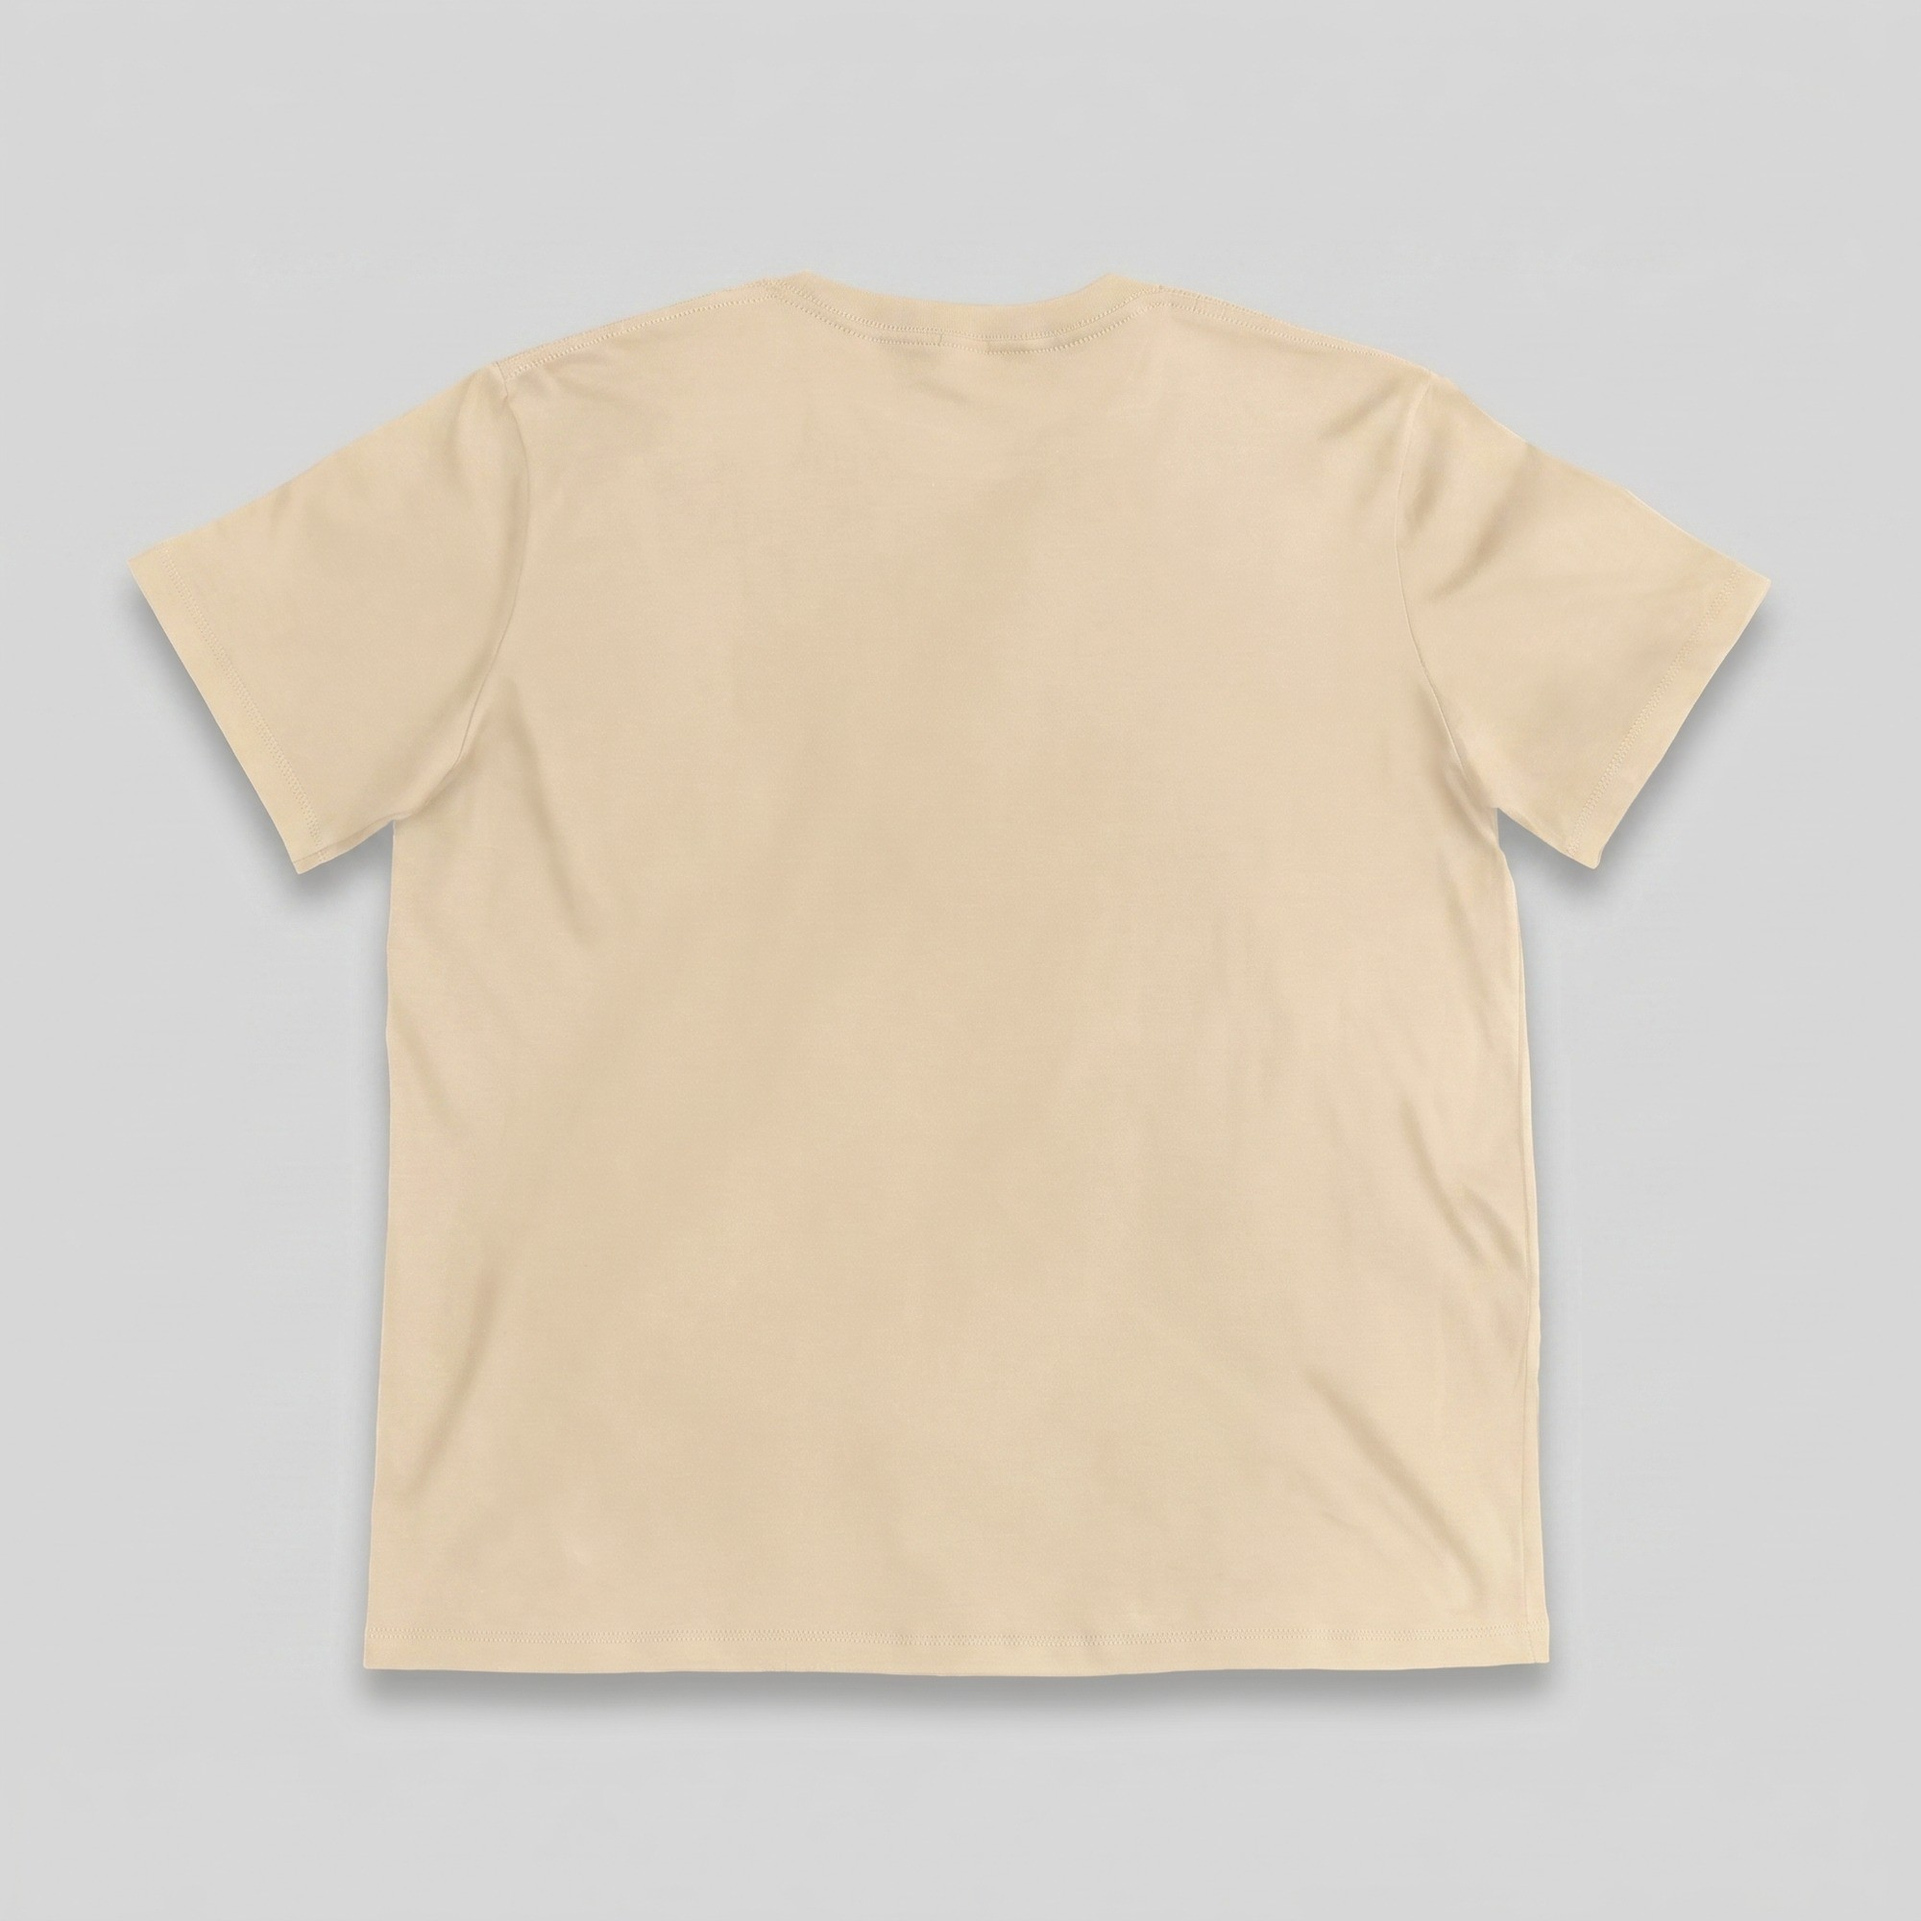
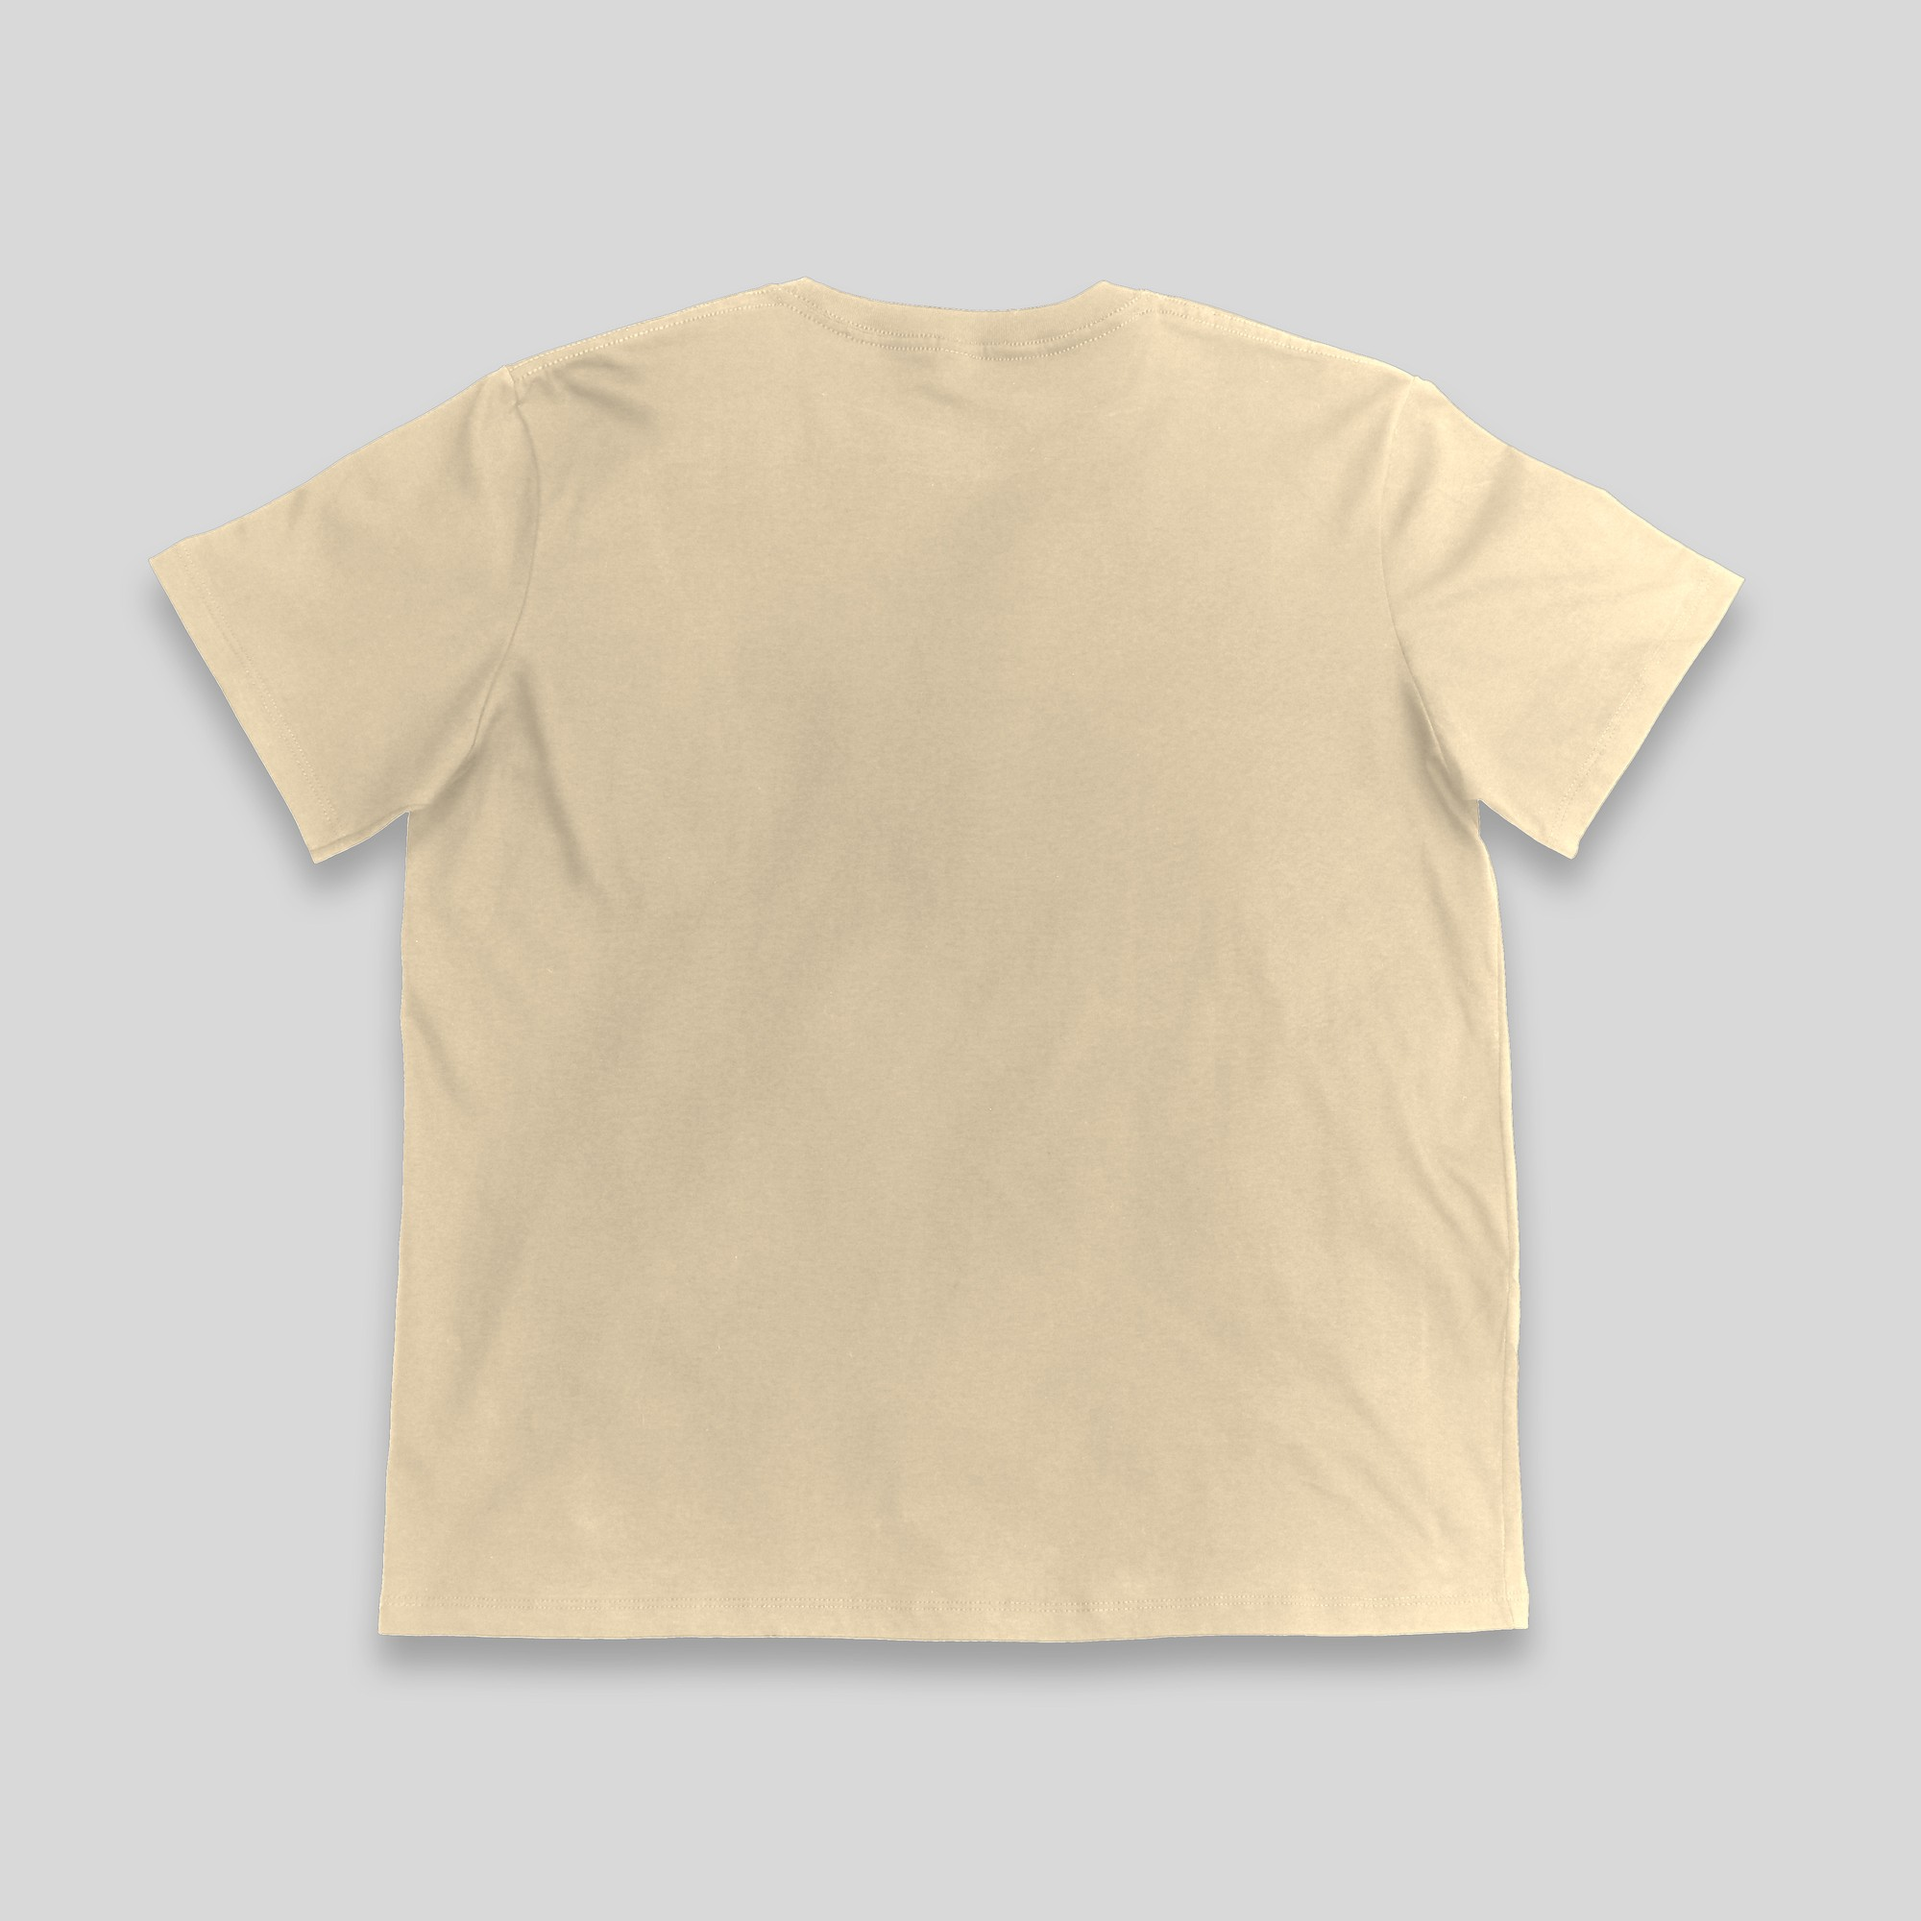
feat(catalogo): Aldea beige completa en /crear, Studio, partners y listas legacy
- catalog/products.ts color beige (#d9c7a8) → /crear, Studio y panel de partners.
- Base tshirt-beige-classic 4000² recoloreada desde la classic negra: calibración
  (garment-mappings) y std-bases copiadas de la negra; ficha web con la base nueva.
- storefront-designer, DesignCustomizer, MockupCanvas, MockupViewer, api/garments,
  print-area-mapper, COLOR_MAP de /crear; PRODUCTS.md vuelve a listar Beige.

diff --git a/__tests__/generation/aldea-beige.test.ts b/__tests__/generation/aldea-beige.test.ts
@@ -1,0 +1,58 @@
+/**
+ * Alta de color "Beige" para Aldea Classic Fit T-Shirt (mismo talle S–XXL
+ * y mismo precio que negro/blanco/stone wash). Verifica los puntos de
+ * integración tocados: catálogo web (lib/products.ts), catálogo fuente
+ * única (lib/catalog/products.ts) y mapeo de área de impresión
+ * (lib/garment-mappings.json).
+ */
+import { describe, it, expect } from 'vitest'
+import fs from 'node:fs'
+import path from 'node:path'
+import { PRODUCTS } from '@/lib/products'
+import { CATALOG_PRODUCTS } from '@/lib/catalog/products'
+import { getGarmentMapping } from '@/lib/garment-mappings'
+
+describe('Aldea Classic Fit T-Shirt — Beige', () => {
+  it('lib/products.ts tiene la entrada B2C con el mismo precio que el resto de la línea', () => {
+    const product = PRODUCTS.find((p) => p.id === 'aldea-tshirt-beige')
+    expect(product).toBeDefined()
+    expect(product?.name).toBe('Aldea Classic Fit T-Shirt - Beige')
+    expect(product?.price).toBe('$28.600')
+    expect(product?.color).toBe('Beige')
+    expect(product?.available).toBe(true)
+  })
+
+  it('lib/catalog/products.ts (fuente única) tiene el color beige con thumbnail existente en public/', () => {
+    const aldea = CATALOG_PRODUCTS.find((p) => p.key === 'aldea-classic-tshirt')
+    expect(aldea).toBeDefined()
+    const beige = aldea?.colors.find((c) => c.key === 'beige')
+    expect(beige).toBeDefined()
+    expect(beige?.name).toBe('Beige')
+    expect(beige?.thumbnail).toBeTruthy()
+    expect(beige?.hero).toBeTruthy()
+    const thumbPath = path.join(process.cwd(), 'public', beige!.thumbnail!.replace(/^\//, ''))
+    const heroPath = path.join(process.cwd(), 'public', beige!.hero!.replace(/^\//, ''))
+    expect(fs.existsSync(thumbPath)).toBe(true)
+    expect(fs.existsSync(heroPath)).toBe(true)
+  })
+
+  it('garment-mappings tiene entradas reales (no fallback) de frente y dorso', () => {
+    const front = getGarmentMapping('aldea-classic-tshirt', 'beige', 'front')
+    const back = getGarmentMapping('aldea-classic-tshirt', 'beige', 'back')
+    expect(front).not.toBeNull()
+    expect(front!.id).not.toBe('fallback')
+    expect(front!.garmentPath).toBe('/garments/tshirt-beige-classic-front.jpeg')
+    expect(back).not.toBeNull()
+    expect(back!.id).not.toBe('fallback')
+    expect(back!.garmentPath).toBe('/garments/tshirt-beige-classic-back.jpeg')
+
+    // Misma caja de impresión que el negro clásico (silueta idéntica: la base
+    // beige es el negro reteñido pixel a pixel, ver garments std-bases).
+    const blackFront = getGarmentMapping('aldea-classic-tshirt', 'black', 'front')
+    const blackBack = getGarmentMapping('aldea-classic-tshirt', 'black', 'back')
+    expect(front!.coordinates).toEqual(blackFront!.coordinates)
+    expect(front!.margins).toEqual(blackFront!.margins)
+    expect(back!.coordinates).toEqual(blackBack!.coordinates)
+    expect(back!.margins).toEqual(blackBack!.margins)
+  })
+})

diff --git a/components/partners/storefront-designer.tsx b/components/partners/storefront-designer.tsx
@@ -31,6 +31,7 @@ const GARMENT_THUMBNAILS: Record<string, Record<string, string>> = {
   'aldea-classic-tshirt': {
     black: '/garments/tshirt-black-classic-front.jpeg',
     white: '/garments/tshirt-white-classic-front.jpeg',
+    beige: '/garments/tshirt-beige-classic-front.jpeg',
     'stone-wash': '/garments/tshirt-stone-wash-classic-front.jpeg',
   },
   'buzo-hoodie-unisex': {
@@ -64,11 +65,11 @@ const GARMENT_THUMBNAILS: Record<string, Record<string, string>> = {
 }
 
 const COLOR_LABELS: Record<string, string> = {
-  black: 'Negro', white: 'Blanco', cream: 'Crema', gray: 'Gris', marron: 'Marron', chocolate: 'Chocolate', yellow: 'Amarillo', 'stone-wash': 'Stone Wash',
+  black: 'Negro', white: 'Blanco', beige: 'Beige', cream: 'Crema', gray: 'Gris', marron: 'Marron', chocolate: 'Chocolate', yellow: 'Amarillo', 'stone-wash': 'Stone Wash',
 }
 
 const COLOR_MAP: Record<string, string> = {
-  black: '#1a1a1a', white: '#f5f5f5', cream: '#f5f0e1', gray: '#6b7280', marron: '#8B5E34', chocolate: '#5C3A21', yellow: '#F5C518', 'stone-wash': '#9a9085',
+  black: '#1a1a1a', white: '#f5f5f5', beige: '#d9c7a8', cream: '#f5f0e1', gray: '#6b7280', marron: '#8B5E34', chocolate: '#5C3A21', yellow: '#F5C518', 'stone-wash': '#9a9085',
 }
 
 // ---------------------------------------------------------------------------

diff --git a/components/CustomVisualizer/MockupViewer.tsx b/components/CustomVisualizer/MockupViewer.tsx
@@ -20,7 +20,7 @@ interface MockupViewerProps {
 const GARMENTS = [
     { id: "aura-oversize-tshirt", name: "Remera Oversize", colors: ["black", "white", "caramel"], type: "tshirt", variant: "oversize" },
     { id: "buzo-hoodie-unisex", name: "Buzo Hoodie Oversize", colors: ["black", "white", "stone-wash", "marron", "cream", "gray"], type: "hoodie", variant: "oversize" },
-    { id: "aldea-classic-tshirt", name: "Remera Classic", colors: ["black", "white", "stone-wash"], type: "tshirt", variant: "classic" },
+    { id: "aldea-classic-tshirt", name: "Remera Classic", colors: ["black", "white", "beige", "stone-wash"], type: "tshirt", variant: "classic" },
 ]
 
 const COLOR_MAP: Record<string, string> = {
@@ -31,6 +31,7 @@ const COLOR_MAP: Record<string, string> = {
     cream: "bg-[#F5F5DC]",
     gray: "bg-zinc-500",
     "stone-wash": "bg-[#9a9085]",
+    beige: "bg-[#d9c7a8]",
 }
 
 export function MockupViewer({

diff --git a/app/admin/print-area-mapper/page.tsx b/app/admin/print-area-mapper/page.tsx
@@ -56,6 +56,8 @@ const GARMENTS = [
   { path: "/garments/tshirt-black-oversize-back.jpeg", name: "T-shirt Negro Oversize Trasero" },
   { path: "/garments/tshirt-white-classic-front.jpeg", name: "T-shirt Blanco Clásico Frontal" },
   { path: "/garments/tshirt-white-classic-back.jpeg", name: "T-shirt Blanco Clásico Trasero" },
+  { path: "/garments/tshirt-beige-classic-front.jpeg", name: "T-shirt Beige Clásico Frontal" },
+  { path: "/garments/tshirt-beige-classic-back.jpeg", name: "T-shirt Beige Clásico Trasero" },
   { path: "/garments/tshirt-stone-wash-classic-front.jpeg", name: "T-shirt Stone Wash Clásico Frontal" },
   { path: "/garments/tshirt-stone-wash-classic-back.jpeg", name: "T-shirt Stone Wash Clásico Trasero" },
   { path: "/garments/tshirt-white-oversize-front.jpeg", name: "T-shirt Blanco Oversize Frontal" },

diff --git a/app/api/garments/route.ts b/app/api/garments/route.ts
@@ -38,7 +38,7 @@ function inferMeta(file: string): Omit<GarmentItem, "path" | "url"> {
   const side = lower.includes("front") ? "front" : lower.includes("back") ? "back" : "unknown"
 
   // intenta extraer color principal
-  const colors = ["black", "white", "gray", "caramel", "cream", "stone-wash"]
+  const colors = ["black", "white", "beige", "gray", "caramel", "cream", "stone-wash"]
   const color = colors.find((c) => lower.includes(c))
 
   return { type, side, color }
@@ -62,6 +62,8 @@ const GARMENT_FILES = [
   "tshirt-black-oversize-front.jpeg",
   "tshirt-caramel-oversize-back.jpeg",
   "tshirt-caramel-oversize-front.png",
+  "tshirt-beige-classic-back.jpeg",
+  "tshirt-beige-classic-front.jpeg",
   "tshirt-stone-wash-classic-back.jpeg",
   "tshirt-stone-wash-classic-front.jpeg",
   "tshirt-white-classic-back.jpeg",

diff --git a/components/MockupCanvas.tsx b/components/MockupCanvas.tsx
@@ -62,11 +62,13 @@ export function MockupCanvas({
         front: {
           black: "/garments/tshirt-black-classic-front.jpeg",
           white: "/garments/tshirt-white-classic-front.jpeg",
+          beige: "/garments/tshirt-beige-classic-front.jpeg",
           "stone-wash": "/garments/tshirt-stone-wash-classic-front.jpeg",
         },
         back: {
           black: "/garments/tshirt-black-classic-back.jpeg",
           white: "/garments/tshirt-white-classic-back.jpeg",
+          beige: "/garments/tshirt-beige-classic-back.jpeg",
           "stone-wash": "/garments/tshirt-stone-wash-classic-back.jpeg",
         },
       },

diff --git a/components/DesignCustomizer.tsx b/components/DesignCustomizer.tsx
@@ -101,7 +101,7 @@ const GARMENT_DEFAULT_IMAGES = {
 
 const COLORS_BY_GARMENT: Record<string, string[]> = {
   "aura-oversize-tshirt": ["black", "white", "caramel"],
-  "aldea-classic-tshirt": ["black", "white", "stone-wash"],
+  "aldea-classic-tshirt": ["black", "white", "beige", "stone-wash"],
   "buzo-hoodie-unisex": ["black", "white", "stone-wash", "marron", "gray", "cream"],
   "buzo-cuello-redondo-unisex": ["black", "white", "stone-wash"],
   "musculosa-bali": ["white", "gray"],

diff --git a/lib/catalog/products.ts b/lib/catalog/products.ts
@@ -100,6 +100,13 @@ export const CATALOG_PRODUCTS: CatalogProduct[] = [
         hero: '/products/tshirt-aldea-blanco-front.jpeg',
       },
       {
+        key: 'beige',
+        name: 'Beige',
+        hex: '#d9c7a8',
+        thumbnail: '/garments/tshirt-beige-classic-front.jpeg',
+        hero: '/products/tshirt-aldea-beige-front.jpeg',
+      },
+      {
         key: 'stone-wash',
         name: 'Stone Wash',
         hex: '#9a9085',

diff --git a/app/crear/DesignCanvas.tsx b/app/crear/DesignCanvas.tsx
@@ -249,6 +249,7 @@ function useKonvaImage(url: string | null | undefined): HTMLImageElement | null 
 const COLOR_MAP: Record<string, string> = {
   negro: "black",
   blanco: "white",
+  beige: "beige",
   stone_wash: "stone-wash",
   "stone-wash": "stone-wash",
   gris: "gray",

diff --git a/app/crear/garment-templates.ts b/app/crear/garment-templates.ts
@@ -82,6 +82,7 @@ export function hasBackTemplate(garmentType: string): boolean {
 const COLOR_MAP: Record<string, string> = {
   negro: "black",
   blanco: "white",
+  beige: "beige",
   stone_wash: "stone-wash",
   gris: "gray",
   crema: "cream",

diff --git a/docs/public/PRODUCTS.md b/docs/public/PRODUCTS.md
@@ -7,7 +7,7 @@ Todos los productos son 100% algodón premium, optimizados para impresión DTG d
 ### Aldea Classic Fit T-Shirt
 - **Precio:** $28,600 ARS
 - **Material:** Algodón peinado 24/1
-- **Colores:** Negro, Blanco, Stone Wash
+- **Colores:** Negro, Blanco, Beige, Stone Wash
 - **Talles:** S, M, L, XL
 - **Descripción:** Remera clásica unisex de corte recto. Ideal para diseños con mucho detalle.
 
